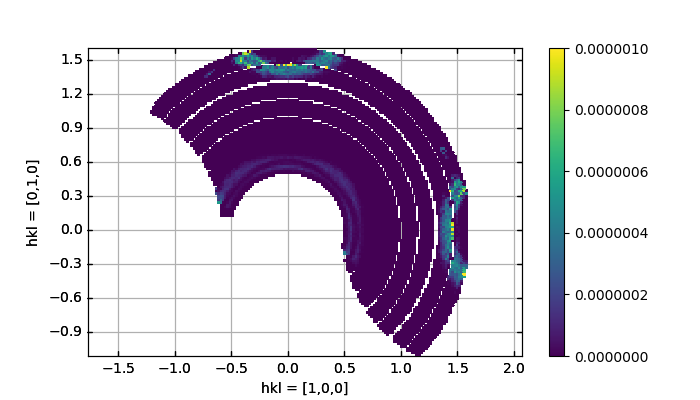
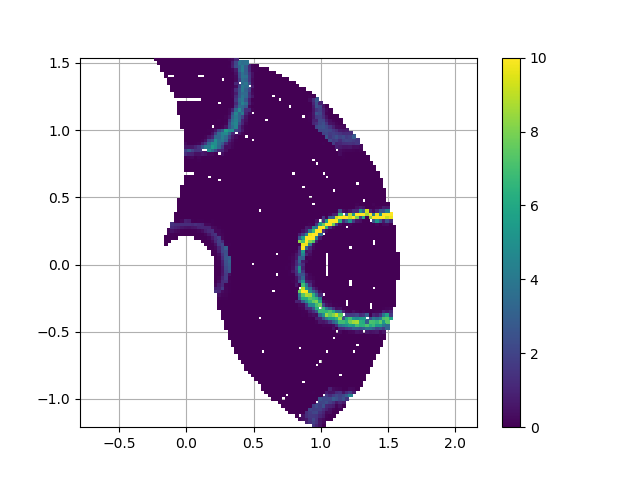
Update tutorials with new data

diff --git a/Tutorials/PlotQPlane.py b/Tutorials/PlotQPlane.py
@@ -4,19 +4,24 @@ sys.path.append('../')
 from MJOLNIR.Data import DataSet
 import numpy as np
 import matplotlib.pyplot as plt
-file = '../TestData/cameasim2018n000011.nxs'
+file = '../TestData/1024/Magnon_ComponentA3Scan.nxs'
 
 Data = DataSet.DataSet(convertedFiles=file)
-EMin = np.min(Data.energy)
-EMax = EMin+0.75
+EMin = np.min(Data.energy)+1.5
+EMax = EMin+0.05
 
 ax = Data.plotQPlane(EMin,EMax,binning='polar',xBinTolerance=0.025,yBinTolerance=0.025,
-                     enlargen=True,log=False,ax=None,RLUPlot=True,vmin=0,vmax=1e-6)
+                     enlargen=False,log=False,ax=None,RLUPlot=True,vmin=0,vmax=10)
 plt.colorbar(ax.pmeshs[0])
-ax.set_clim(0,5e-7)
+ax.set_clim(0,10)
 
 ax2 = Data.plotQPlane(EMin,EMax,binning='xy',xBinTolerance=0.025,yBinTolerance=0.025,
-                     enlargen=False,log=False,ax=None,RLUPlot=True,vmin=0,vmax=1e-6)
+                     enlargen=False,log=False,ax=None,RLUPlot=True,vmin=0,vmax=10)
 
 plt.colorbar(ax2.pmeshs[0])
 plt.show()
+
+fig = plt.figure(1)
+fig.savefig('/home/lass/Dropbox/PhD/Software/MJOLNIR/Tutorials/PlotQPlanePolar.png')
+fig = plt.figure(2)
+fig.savefig('/home/lass/Dropbox/PhD/Software/MJOLNIR/Tutorials/PlotQPlaneXY.png')

diff --git a/Tutorials/Full_example_without_Viewer3D.py b/Tutorials/Full_example_without_Viewer3D.py
@@ -3,12 +3,12 @@ sys.path.append('..')
 from MJOLNIR.Data import DataSet
 import numpy as np
 import matplotlib.pyplot as plt
-import h5py as hdf
 
 # Convert raw data to NXSqom
 
-ConvertedDataFile=['/home/lass/Dropbox/PhD/Software/DataSimulation/T0Phonon10meV.nxs']
-DS = DataSet.DataSet(convertedFiles=ConvertedDataFile)
+DataFile=['../TestData/1024/Magnon_ComponentA3Scan.h5']
+DS = DataSet.DataSet(dataFiles=DataFile)
+DS.convertDataFile()
 
 # Extract all the data
 I,qx,qy,energy,Norm,Monitor = DS.I,DS.qx,DS.qy,DS.energy,DS.Norm,DS.Monitor
@@ -37,8 +37,8 @@ Int = np.divide(I_bin*NormCount_bin,Monitor_bin*Normalization_bin)
 # Plot energy slice of data
 Eslice=2
 
-VMIN=1e-10
-VMAX=1e-6
+VMIN=0
+VMAX=20
 
 fig=plt.figure(figsize=(8,8))
 pc = plt.pcolormesh(Qx[:,:,Eslice].T,Qy[:,:,Eslice].T,Int[:,:,Eslice].T,vmin=VMIN,vmax=VMAX,zorder=10)
@@ -48,7 +48,7 @@ ax = fig.add_subplot(111)
 plt.ylabel('$Q_y$ [1/AA]')
 plt.xlabel('$Q_x$ [1/AA]')
 plt.title('$\hbar \omega =$ {:.02f}'.format(np.mean(energy_bin[:,:,Eslice])) + ' meV')
-plt.axis([-2.7, 2.7, -2.7, 2.7])
+plt.axis([-1.8, 1.8, -1.8, 1.8])
 ax.set_aspect('equal', 'datalim')
 plt.grid('on')
 plt.show()

diff --git a/Tutorials/Load_Instrument_From_XML_file.py b/Tutorials/Load_Instrument_From_XML_file.py
@@ -12,8 +12,8 @@ ax = fig.gca(projection='3d')
 
 Instr.plot(ax) # Plot instrument
 
-ax.set_xlim(0.0,1.5)
-ax.set_ylim(-0.2,0.2)
+ax.set_ylim(0.0,1.5)
+ax.set_xlim(-0.2,0.2)
 ax.set_zlim(0.0,1.1)
 ax.set_xlabel('x [m]')
 ax.set_ylabel('y [m]')
@@ -25,7 +25,8 @@ Instr.initialize() # Initialize instrument
 
 plt.figure()
 for det in range(len(Instr.wedges[0].detectors)):
-    plt.scatter(range(Instr.wedges[0].detectors[det].pixels),
+    start,stop = Instr.wedges[0].detectors[det]._split[[0,-1]]
+    plt.scatter(np.arange(start,stop),#range(Instr.wedges[0].detectors[det].pixels),
 				Instr.A4[0][det]*180.0/np.pi,zorder=10,s=3)
 
 plt.grid('on')
@@ -35,7 +36,8 @@ plt.savefig('SimpleInstrument_A4.png',format='png',dpi=300)
 
 plt.figure()
 for det in range(len(Instr.wedges[0].detectors)):
-    plt.scatter(range(Instr.wedges[0].detectors[det].pixels),
+    start,stop = Instr.wedges[0].detectors[det]._split[[0,-1]]
+    plt.scatter(np.arange(start,stop),#Instr.wedges[0].detectors[det].pixels),
 				Instr.Ef[0][det],zorder=10,s=3)
 
 plt.grid('on')

diff --git a/Tutorials/cut2D.py b/Tutorials/cut2D.py
@@ -4,8 +4,7 @@ sys.path.append('../')
 from MJOLNIR.Data import DataSet
 import numpy as np
 import matplotlib.pyplot as plt
-file = '../TestData/cameasim2018n000011.nxs'
-#file = ['/home/lass/Dropbox/PhD/Software/DataSimulation/T0Phonon10meV.nxs','/home/lass/Dropbox/PhD/Software/DataSimulation/T0Phonon8meV.nxs']
+file = '../TestData/1024/Magnon_ComponentA3Scan.nxs'
 DataObj = DataSet.DataSet(convertedFiles=file)
 
 energy = DataObj.energy
@@ -19,9 +18,9 @@ minPixel = 0.01
 ax,DataList,qBnLit,centerPos,binDIstance = DataObj.plotCutQE(q1,q2,width,minPixel,EnergyBins)
 plt.colorbar(ax.pmeshs[0])
 
-ax.set_clim(0,1e-6)
+ax.set_clim(0,10)
 plt.tight_layout()
 
 ## Cut and plot 1D
-ax,DataList,Bins,binCenter,binDistance = DataObj.plotCut1D(q1,q2,width,minPixel,Emin = 5.2, Emax = 5.7,plotCoverage=True)
+ax2,DataList,Bins,binCenter,binDistance = DataObj.plotCut1D(q1,q2,width,minPixel,Emin = 0.2, Emax = 1.7,plotCoverage=True)
 plt.show()

diff --git a/Tutorials/Powder.py b/Tutorials/Powder.py
@@ -3,7 +3,7 @@ sys.path.append('../')
 
 from MJOLNIR.Data import DataSet
 import matplotlib.pyplot as plt
-file = '../TestData/cameasim2018n000011.nxs'
+file = '../TestData/1024/Magnon_ComponentA3Scan.nxs'
 
 DataObj = DataSet.DataSet(convertedFiles=file)
 
@@ -16,13 +16,13 @@ Monitor = DataObj.Monitor
 
 EBinEdges = DataSet.binEdges(energy,tolerance=0.125)
 
-ax,Data,qbins = DataObj.plotCutPowder(EBinEdges,qMinBin=0.01)
+ax,Data,qbins = DataObj.plotCutPowder(EBinEdges,qMinBin=0.05)
 plt.colorbar(ax.pmeshs[0])
 
-ax2,Data2,qbins2 = DataSet.plotCutPowder([qx,qy,energy],I,Norm,Monitor,EBinEdges,qMinBin=0.01)
+ax2,Data2,qbins2 = DataSet.plotCutPowder([qx,qy,energy],I,Norm,Monitor,EBinEdges,qMinBin=0.05)
 plt.colorbar(ax2.pmeshs[0])
 
 Data3,qbins3 = DataObj.cutPowder(EBinEdges)
 
-ax2.set_clim(0,1e-6)
+ax2.set_clim(0,0.01)
 plt.show()

diff --git a/Tutorials/Binning_data.py b/Tutorials/Binning_data.py
@@ -5,7 +5,7 @@ from MJOLNIR.Data import DataSet,Viewer3D
 import numpy as np
 import h5py as hdf
 import matplotlib.pyplot as plt
-fileName = '../../CAMEA_Test_Files/cameasim2018n000011.nxs'
+fileName = '../TestData/1024/Magnon_ComponentA3Scan.nxs'
 
 
 file = hdf.File(fileName,'r')
@@ -22,12 +22,15 @@ file.close()
 pos = [posx,posy,energy]
 
 import warnings
-Data,bins = DataSet.binData3D(0.075,0.075,0.2,pos,I,norm=Norm,mon=Monitor)
+Data,bins = DataSet.binData3D(0.02,0.02,0.1,pos,I,norm=Norm,mon=Monitor)
 
 warnings.simplefilter("ignore")
 Intensity = np.divide(Data[0]*Data[3],Data[1]*Data[2])
 warnings.simplefilter('once')
 
 Viewer = Viewer3D.Viewer3D(Intensity,bins,axis=2)
+
+Viewer.caxis=(0,40)
+
 Viewer.ax.set_title(str(title)[2:-1])
 plt.show()

diff --git a/Tutorials/Full_example.py b/Tutorials/Full_example.py
@@ -11,11 +11,12 @@ dataset = DataSet.DataSet(dataFiles=DataFile)
 dataset.convertDataFile(saveLocation='../TestData/')
 
 
-Data,bins = dataset.binData3D(0.08,0.08,0.25)
+Data,bins = dataset.binData3D(0.02,0.02,0.1)
 
 warnings.simplefilter('ignore')
 Intensity = np.divide(Data[0]*Data[3],Data[1]*Data[2])
 warnings.simplefilter('once')
 viewer = Viewer3D.Viewer3D(Intensity,bins)
+viewer.caxis=(0,40)
 plt.show()
 

diff --git a/docs/Tutorials/Full.rst b/docs/Tutorials/Full.rst
@@ -7,28 +7,25 @@ Full example of the data treatment starting from the instrument definitions prov
 
     project
     ├── TestData          
-    │   ├── CAMEA_Full_2.xml                         Instrument description
-    │   ├── VanNormalization.h5                      Normalization data in raw format
-    │   └── cameasim2018n000005.h5                   Phonon scan data in raw format
+    │   └── 1024
+    │       └ Magnon_ComponentA3Scan.h5              Magnon scan data in raw format
     └── Tutorials
-        ├── EnergyNormalization_8.calib              Generated 8 pixel normalization calibration table
-        ├── cameasim2018n000005.nxs                  Converted phonon scan data in NXqom format
         └── Full_example.py                          Python script executed to produce data treatment
 
 
 +-------------------------------------------------------------------+------------------------------------------------------------------+
-|      .. literalinclude:: ../../Tutorials/Full_example.py          |    .. Visualization_E_546:                                       |
-|         :lines: 4-                                                |                                                                  |
-|         :language: python                                         |    .. figure:: ../../Tutorials/Visualization_E_546.png           |
+|      .. literalinclude:: ../../Tutorials/Binning_data.py          |    .. Visualization_E_1_5:                                       |
+|         :lines: 4-22,25,28,31-                                    |                                                                  |
+|         :language: python                                         |    .. figure:: ../../Tutorials/Visualization_E_1_5.png           |
 |         :linenos:                                                 |      :width: 90%                                                 |
 |                                                                   |                                                                  |
-| Binning of the converted data into Qx and Qy bins of size 0.05AA  |  Cut through data along the energy direction showing Qx and Qy   |
-| and energy in 0.2 meV. Intensity is calculated and with the bins  |  for a phonon scan at the energy 5.46 meV.                       |
+| Binning of the converted data into Qx and Qy bins of size 0.02 AA |  Cut through data along the energy direction showing Qx and Qy   |
+| and energy in 0.1 meV. Intensity is calculated and with the bins  |  for a phonon scan at the energy 1.5 meV.                        |
 | passed to the visualizer.                                         |                                                                  |
 +-------------------------------------------------------------------+------------------------------------------------------------------+
 |  .. Visualization_Qx_119:                                         |  .. Visualization_Qy_1_84:                                       |
 |                                                                   |                                                                  |
-|  .. figure:: ../../Tutorials/Visualization_Qx_0_5.png             |  .. figure:: ../../Tutorials/Visualization_Qy_1_84.png           |
+|  .. figure:: ../../Tutorials/Visualization_Qx_1_32.png            |  .. figure:: ../../Tutorials/Visualization_Qy_m0_05.png          |
 |    :width: 90%                                                    |    :width: 90%                                                   |
 |                                                                   |                                                                  |
 | Cut of data along the Qx direction.                               | Cut of data along the Qy direction.                              |

diff --git a/docs/Tutorials/BinAndVisualize.rst b/docs/Tutorials/BinAndVisualize.rst
@@ -3,18 +3,18 @@ Bin data and visualize
 Having converted the data into the Nexus NXsqom format, one wants to both rebin the data and visualize it. As different detector pixels covers different positions in reciprocal space, one needs to rebin the data in order to avoid large areas of no data. This is done using the method in the :ref:`DataSet<DataSet>` called binData3D. As input one needs to provide the step size in the x, y, and z directions, the 3D position and intensity. Furthermore, normalization and monitor count can be specified in order to also bin these. Returned is the rebinned data together with normalization and monitor count, if applicable, and the bins used.
 
 +-------------------------------------------------------------------+------------------------------------------------------------------+
-|      .. literalinclude:: ../../Tutorials/Binning_data.py          |    .. Visualization_E_546:                                       |
+|      .. literalinclude:: ../../Tutorials/Binning_data.py          |    .. Visualization_E_1_5:                                       |
 |         :lines: 4-22,25,28,31-                                    |                                                                  |
-|         :language: python                                         |    .. figure:: ../../Tutorials/Visualization_E_546.png           |
+|         :language: python                                         |    .. figure:: ../../Tutorials/Visualization_E_1_5.png           |
 |         :linenos:                                                 |      :width: 90%                                                 |
 |                                                                   |                                                                  |
-| Binning of the converted data into Qx and Qy bins of size 0.075AA |  Cut through data along the energy direction showing Qx and Qy   |
-| and energy in 0.2 meV. Intensity is calculated and with the bins  |  for a phonon scan at the energy 5.46 meV.                       |
+| Binning of the converted data into Qx and Qy bins of size 0.02 AA |  Cut through data along the energy direction showing Qx and Qy   |
+| and energy in 0.1 meV. Intensity is calculated and with the bins  |  for a phonon scan at the energy 1.5 meV.                        |
 | passed to the visualizer.                                         |                                                                  |
 +-------------------------------------------------------------------+------------------------------------------------------------------+
 |  .. Visualization_Qx_119:                                         |  .. Visualization_Qy_1_84:                                       |
 |                                                                   |                                                                  |
-|  .. figure:: ../../Tutorials/Visualization_Qx_0_5.png             |  .. figure:: ../../Tutorials/Visualization_Qy_1_84.png           |
+|  .. figure:: ../../Tutorials/Visualization_Qx_1_32.png            |  .. figure:: ../../Tutorials/Visualization_Qy_m0_05.png          |
 |    :width: 90%                                                    |    :width: 90%                                                   |
 |                                                                   |                                                                  |
 | Cut of data along the Qx direction.                               | Cut of data along the Qy direction.                              |

diff --git a/docs/Tutorials/PlotQPlane.rst b/docs/Tutorials/PlotQPlane.rst
@@ -7,21 +7,21 @@ Plotting of Q plane using binnings
      :language: python
      :linenos:
 
-Creation of two plots of the cameasim2018n000011 converted data. Firstly, a polar plot is created on a reciprocal lattice axes, with adaptive bins and non-logarithmic intensities. Notice that in line 14 the coloring is changed with the added method to the axes object.
+Creation of two plots of the Magnon_ComponentA3Scan.nxs converted data. Firstly, a polar plot is created on a reciprocal lattice axes, with adaptive bins and non-logarithmic intensities. 
 
 .. _PlotQPlane_fig1: 
 
 .. figure:: ../../Tutorials/PlotQPlanePolar.png
    :width: 45% 
 
-Plotting of intensities measured between ~5 meV and ~5.75 meV using adaptive polar binning.
+Plotting of intensities measured between ~1.29 meV and ~1.34 meV using adaptive polar binning.
 
 .. _PowderPlot_fig2: 
 
 .. figure:: ../../Tutorials/PlotQPlaneXY.png
    :width: 45% 
 
-Plotting of intensities measured between ~5 meV and ~5.75 meV using equi-sized rectangular binning. As the binning is chosen too fine a lot of holes appear in the plot.
+Plotting of intensities measured between ~1.29 meV and ~1.34 meV using equi-sized rectangular binning. As the binning is chosen too fine a lot of holes appear in the plot.
 
 
 

diff --git a/docs/Tutorials/PlotA3A4.rst b/docs/Tutorials/PlotA3A4.rst
@@ -1,3 +1,5 @@
+.. warning::
+    This Page is not up to date!
 
 Plotting all pixels binned in A3 and A4
 ^^^^^^^^^^^^^^^^^^^^^^^^^^^^^^^^^^^^^^^

diff --git a/docs/Tutorials/PlotQPatches.rst b/docs/Tutorials/PlotQPatches.rst
@@ -1,3 +1,5 @@
+.. warning::
+    This Page is not up to date!
 
 Plotting all pixels binned in Q space
 ^^^^^^^^^^^^^^^^^^^^^^^^^^^^^^^^^^^^^
